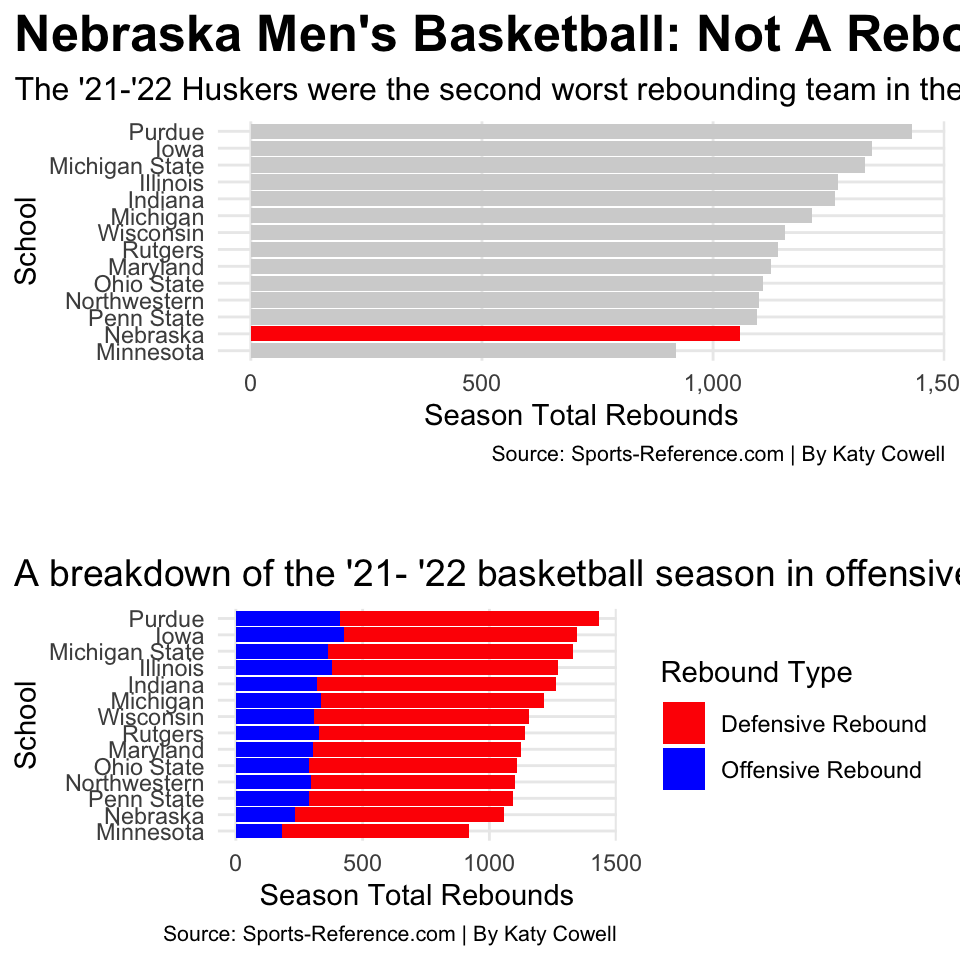
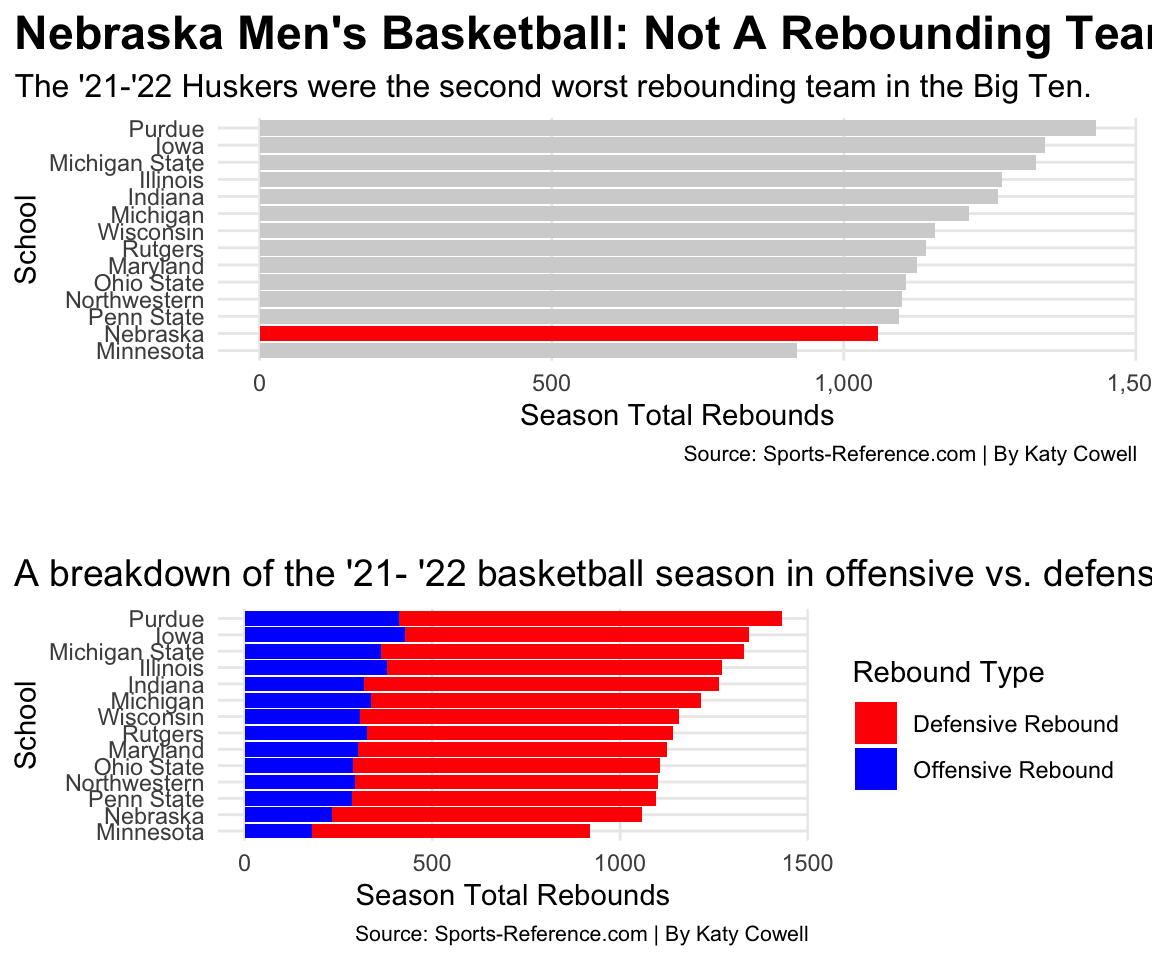
size

diff --git a/2022/04/10/nebraskas-eleven-million-dollar-question/index.html b/2022/04/10/nebraskas-eleven-million-dollar-question/index.html
@@ -72,10 +72,10 @@
 
 <p>After a 1-16 Big Ten season record, there was chatter around Nebraska regarding the job security of one of the state’s highest-paid employees.</p>
 <p>Everyone and their brother were talking about whether Nebraska men’s basketball head coach, Fred Hoiberg, should come back for another year.</p>
-<p>There were $18.5-million reasons for him to stay, but public pressure and a not so pretty track record led to a restructured contract that reduced Hoiberg’s buyout to only $11-million dollars.</p>
+<p>There were $18.5 million reasons for him to stay, but public pressure and a not so pretty track record led to a restructured contract that reduced Hoiberg’s buyout to only $11 million.</p>
 <p>Back for a fourth season, what does Fred Hoiberg need to do to win in the Big Ten?</p>
 <p>Game statistics from Sports Reference can help answer this question.</p>
-<p><img src="/2022/04/10/nebraskas-eleven-million-dollar-question/index_files/figure-html/unnamed-chunk-9-1.png" width="480" /></p>
+<p><img src="/2022/04/10/nebraskas-eleven-million-dollar-question/index_files/figure-html/unnamed-chunk-9-1.png" width="576" /></p>
 <p>Rebounding.</p>
 <p>Rebounds provide another scoring opportunity, and to put it simply, the Huskers were not the best. Minnesota saved Nebraska from being the worst rebounding team in the Big Ten and also gave them their first conference win.</p>
 <p>How nice of the Golden Gophers.</p>
@@ -86,7 +86,7 @@
 <p>Continuing to focus on effort-based plays, hustle statistics look at steals and blocks.</p>
 <p>Alonzo Verge Jr. ranked third in the conference with 1.6 steals a game. And thanks to Verge, Nebraska holds its own with the Big Ten Champions, Iowa, when it comes to steals. Just 34 steals separated Nebraska in second place behind Iowa.</p>
 <p>Blocks are a different story; maybe that’s something to work on in practice. (Write that down Fred.)</p>
-<p><img src="/2022/04/10/nebraskas-eleven-million-dollar-question/index_files/figure-html/unnamed-chunk-16-1.png" width="336" /></p>
+<p><img src="/2022/04/10/nebraskas-eleven-million-dollar-question/index_files/figure-html/unnamed-chunk-16-1.png" width="768" /></p>
 <p>Shooting.</p>
 <p>What was hyped up in the preseason to be a team full of “shooters,” the Nebraska offense boosted by 5-star recruit, Bryce McGowens, still fell short.</p>
 <p>Below average in field goals and three-pointers, the Huskers couldn’t seem to get a consistent offense going last year. Nebraska shot more than most of the Big Ten but had a little less than a 50/50 chance of making their shots. Those odds dramatically decrease when looking at three-pointers. Nebraska attempted 701 3-point shots and made only 224 of them.</p>
